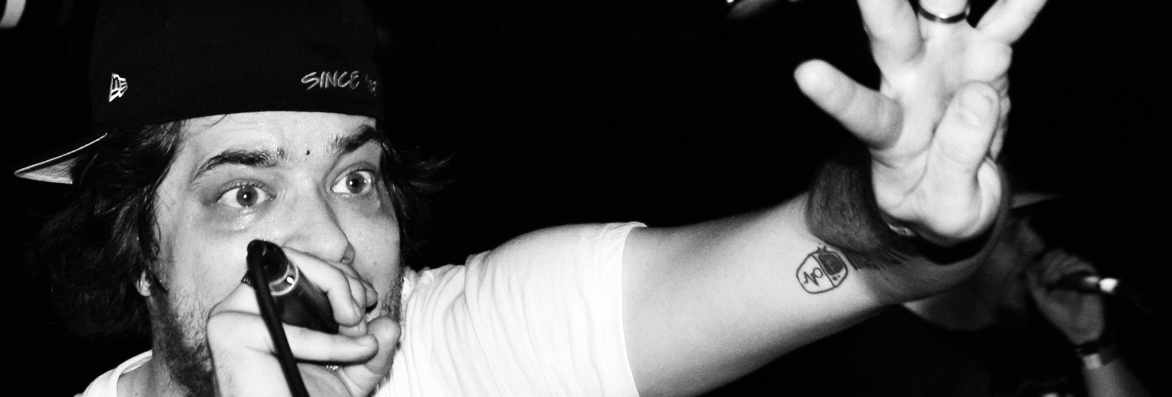
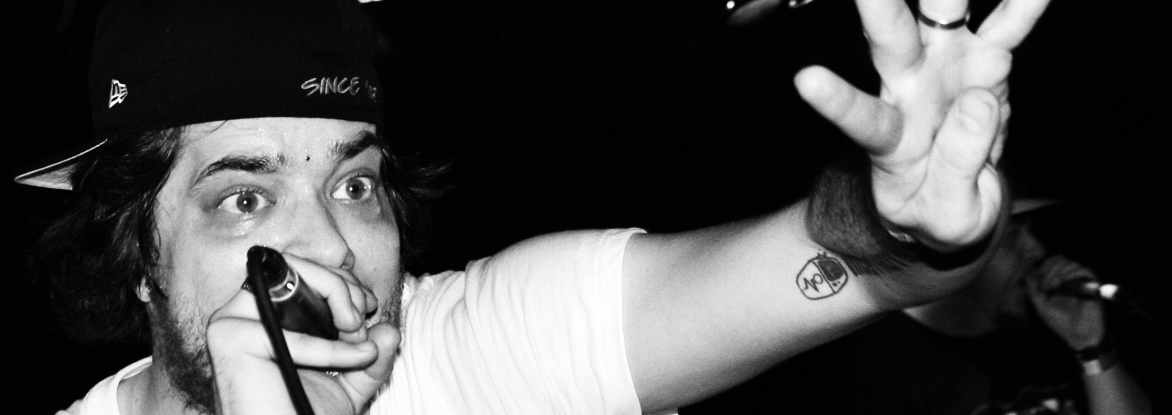
Updated header image layout and added meta tags

diff --git a/_/css/screen.min.css b/_/css/screen.min.css
@@ -1,1 +1,1 @@
-.holder:after,main:after{content:"";display:table;clear:both}.holder,main{max-width:680px;margin:0 auto;position:relative;padding-left:20px;padding-right:20px}@media(min-width:43.75em){.holder,main{padding-left:50px;padding-right:50px}}*{box-sizing:border-box}.chromeframe{position:absolute;top:0;padding:20px;background:#fff;color:#666}@-ms-viewport{width:device-width}@-o-viewport{width:device-width}@viewport{width:device-width}::-moz-selection,::selection{background:#333;color:#fff;text-shadow:none}a:link{-webkit-tap-highlight-color:#333}.preload *{-webkit-transition:none!important;-moz-transition:none!important;-ms-transition:none!important;-o-transition:none!important}html{background-color:#eee}body{font-family:Helvetica Neue,Helvetica,Arial,sans-serif}h1,h2,h3,h4{margin-top:40px}img{max-width:100%;-webkit-backface-visibility:hidden;backface-visibility:hidden}p{margin:0;line-height:150%}p+p{margin-top:20px}li+li{margin-top:10px}.note{font-size:14px;font-size:1.2vw}@media(max-width:1166.66667px){.note{font-size:14px}}@media(min-width:1500px){.note{font-size:18px}}a{color:#333;text-decoration-skip:ink}a:hover{color:#666}html{font-size:80%}@media(min-width:43.75em){html{font-size:100%}}body{margin:0;display:-webkit-box;display:-webkit-flex;display:-ms-flexbox;display:flex;-webkit-box-orient:vertical;-webkit-box-direction:normal;-webkit-flex-direction:column;-ms-flex-direction:column;flex-direction:column;-webkit-box-align:center;-webkit-align-items:center;-ms-flex-align:center;align-items:center}.image-strip{background:url(../img/header--600.jpg?f) left center no-repeat #333;height:175px;background-size:cover;width:100%;color:#fff}@media(min-width:43.75em){.image-strip{height:250px;background-image:url(../img/header.jpg?8ftf)}}header{background-color:#333;color:#fff;padding:20px 0;width:100%}header h1,header h2{margin:0}.intro{background-color:#fff;width:100%;padding:20px 0}footer{background:#fff;padding:40px 0;width:100%}.refresh{margin:80px 0;display:-webkit-box;display:-webkit-flex;display:-ms-flexbox;display:flex;-webkit-box-pack:center;-webkit-justify-content:center;-ms-flex-pack:center;justify-content:center}.refresh button{cursor:pointer}.refresh button:hover{background-color:#a3a3a3}.refresh svg{display:inline-block;margin-right:5px}.foot-notes{margin-top:40px;font-size:80%}.foot-notes p+p{margin-top:10px}button{font-size:14px;border:0;display:-webkit-inline-box;display:-webkit-inline-flex;display:-ms-inline-flexbox;display:inline-flex;-webkit-box-align:center;-webkit-align-items:center;-ms-flex-align:center;align-items:center;-webkit-box-pack:center;-webkit-justify-content:center;-ms-flex-pack:center;justify-content:center;padding:20px;background-color:#ccc}
+.holder:after,main:after{content:"";display:table;clear:both}.holder,main{max-width:680px;margin:0 auto;position:relative;padding-left:20px;padding-right:20px}@media(min-width:43.75em){.holder,main{padding-left:50px;padding-right:50px}}*{box-sizing:border-box}.chromeframe{position:absolute;top:0;padding:20px;background:#fff;color:#666}@-ms-viewport{width:device-width}@-o-viewport{width:device-width}@viewport{width:device-width}::-moz-selection,::selection{background:#333;color:#fff;text-shadow:none}a:link{-webkit-tap-highlight-color:#333}.preload *{-webkit-transition:none!important;-moz-transition:none!important;-ms-transition:none!important;-o-transition:none!important}body{font-family:Helvetica Neue,Helvetica,Arial,sans-serif}h1,h2,h3,h4{margin-top:40px}img{max-width:100%;-webkit-backface-visibility:hidden;backface-visibility:hidden}p{margin:0;line-height:150%}p+p{margin-top:20px}li+li{margin-top:10px}.note{font-size:14px;font-size:1.2vw}@media(max-width:1166.66667px){.note{font-size:14px}}@media(min-width:1500px){.note{font-size:18px}}a{color:#333;text-decoration-skip:ink}a:hover{color:#666}html{background-color:#333;font-size:80%}@media(min-width:43.75em){html{font-size:100%}}body{margin:0;display:-webkit-box;display:-webkit-flex;display:-ms-flexbox;display:flex;-webkit-box-orient:vertical;-webkit-box-direction:normal;-webkit-flex-direction:column;-ms-flex-direction:column;flex-direction:column;-webkit-box-align:center;-webkit-align-items:center;-ms-flex-align:center;align-items:center}.image-strip{background:#030303;display:-webkit-box;display:-webkit-flex;display:-ms-flexbox;display:flex;-webkit-box-pack:center;-webkit-justify-content:center;-ms-flex-pack:center;justify-content:center;width:100%;color:#fff}.image-strip__image{max-width:850px}.image-strip img{display:block}header{background-color:#030303;color:#fff;padding:20px 0;width:100%}header h1,header h2{margin:0}.intro{background-color:#fff;width:100%;padding:20px 0}footer{background:#fff;padding:40px 0;width:100%}.refresh{margin:80px 0;display:-webkit-box;display:-webkit-flex;display:-ms-flexbox;display:flex;-webkit-box-pack:center;-webkit-justify-content:center;-ms-flex-pack:center;justify-content:center}.refresh button{cursor:pointer}.refresh button:hover{background-color:#a3a3a3}.refresh svg{display:inline-block;margin-right:5px}.foot-notes{margin-top:40px;font-size:80%}.foot-notes p+p{margin-top:10px}button{font-size:14px;border:0;display:-webkit-inline-box;display:-webkit-inline-flex;display:-ms-inline-flexbox;display:inline-flex;-webkit-box-align:center;-webkit-align-items:center;-ms-flex-align:center;align-items:center;-webkit-box-pack:center;-webkit-justify-content:center;-ms-flex-pack:center;justify-content:center;padding:20px;background-color:#ccc}

diff --git a/_/css/screen.css b/_/css/screen.css
@@ -197,6 +197,7 @@ a:hover {
 /* --------------------------------------------------- */
 /* line 30, ../sass/screen.scss */
 html {
+  background-color: #333;
   font-size: 80%;
 }
 @media (min-width: 43.75em) {
@@ -206,7 +207,7 @@ html {
   }
 }
 
-/* line 37, ../sass/screen.scss */
+/* line 38, ../sass/screen.scss */
 body {
   margin: 0;
   display: -webkit-box;
@@ -224,57 +225,56 @@ body {
           align-items: center;
 }
 
-/* line 44, ../sass/screen.scss */
+/* line 45, ../sass/screen.scss */
 .image-strip {
-  background: #333;
-  height: 175px;
-  background-image: url(../img/header--600.jpg?f);
-  background-size: cover;
-  background-repeat: no-repeat;
-  background-position: left center;
+  background: #030303;
+  display: -webkit-box;
+  display: -webkit-flex;
+  display: -ms-flexbox;
+  display: flex;
+  -webkit-box-pack: center;
+  -webkit-justify-content: center;
+      -ms-flex-pack: center;
+          justify-content: center;
   width: 100%;
   color: #FFF;
 }
-@media (min-width: 43.75em) {
-  /* line 44, ../sass/screen.scss */
-  .image-strip {
-    height: 250px;
-  }
+/* line 67, ../sass/screen.scss */
+.image-strip__image {
+  max-width: 850px;
 }
-@media (min-width: 43.75em) {
-  /* line 44, ../sass/screen.scss */
-  .image-strip {
-    background-image: url(../img/header.jpg?8ftf);
-  }
+/* line 71, ../sass/screen.scss */
+.image-strip img {
+  display: block;
 }
 
-/* line 69, ../sass/screen.scss */
+/* line 78, ../sass/screen.scss */
 header {
-  background-color: #333;
+  background-color: #030303;
   color: #FFF;
   padding: 20px 0;
   width: 100%;
 }
-/* line 75, ../sass/screen.scss */
+/* line 84, ../sass/screen.scss */
 header h1, header h2 {
   margin: 0;
 }
 
-/* line 80, ../sass/screen.scss */
+/* line 89, ../sass/screen.scss */
 .intro {
   background-color: #fff;
   width: 100%;
   padding: 20px 0;
 }
 
-/* line 91, ../sass/screen.scss */
+/* line 100, ../sass/screen.scss */
 footer {
   background: #FFF;
   padding: 40px 0;
   width: 100%;
 }
 
-/* line 97, ../sass/screen.scss */
+/* line 106, ../sass/screen.scss */
 .refresh {
   margin: 80px 0 80px 0;
   display: -webkit-box;
@@ -286,31 +286,31 @@ footer {
       -ms-flex-pack: center;
           justify-content: center;
 }
-/* line 102, ../sass/screen.scss */
+/* line 111, ../sass/screen.scss */
 .refresh button {
   cursor: pointer;
 }
-/* line 104, ../sass/screen.scss */
+/* line 113, ../sass/screen.scss */
 .refresh button:hover {
   background-color: #a3a3a3;
 }
-/* line 109, ../sass/screen.scss */
+/* line 118, ../sass/screen.scss */
 .refresh svg {
   display: inline-block;
   margin-right: 5px;
 }
 
-/* line 117, ../sass/screen.scss */
+/* line 126, ../sass/screen.scss */
 .foot-notes {
   margin-top: 40px;
   font-size: 80%;
 }
-/* line 121, ../sass/screen.scss */
+/* line 130, ../sass/screen.scss */
 .foot-notes p + p {
   margin-top: 10px;
 }
 
-/* line 127, ../sass/screen.scss */
+/* line 136, ../sass/screen.scss */
 button {
   font-size: 14px;
   border: 0;

diff --git a/_/sass/screen.scss b/_/sass/screen.scss
@@ -28,6 +28,7 @@
 /* --------------------------------------------------- */
 
 html {
+  background-color: #333;
   font-size: 80%;
   @include breakpoint(em(700)){
 		font-size: 100%;
@@ -42,32 +43,40 @@ body {
 }
 
 .image-strip {
-  background: #333;
-  height: 175px;
-  @include breakpoint(em(700)){
-  height: 250px;
-	}
+  background: #030303;
+  // height: 175px;
+  // @include breakpoint(em(700)){
+  // height: 250px;
+	// }
 
-    background-image: url(../img/header--600.jpg?f);
-  @include breakpoint(em(700)){
-  background-image: url(../img/header.jpg?8ftf);
-	}
+  // background-image: url(../img/header--600.jpg?f);
+  // @include breakpoint(em(700)){
+  // background-image: url(../img/header.jpg?8ftf);
+	// }
+  //
+  // background-size: 850px auto;
+  // background-repeat: no-repeat;
+  // background-position: center center;
 
-  background-size: cover;
-  background-repeat: no-repeat;
-  background-position: left center;
-
+  display: flex;
+  justify-content: center;
 
   width: 100%;
   color: #FFF;
 
+  &__image {
+    max-width: 850px;
+  }
 
+  img {
+    display: block;
+  }
 
 
 }
 
 header {
-  background-color: #333;
+  background-color: #030303;
 
   color: #FFF;
   padding: $space 0;

diff --git a/index.php b/index.php
@@ -1,13 +1,22 @@
 <!DOCTYPE html>
 <html>
 <head>
-	<title>Lorum ipsum generator using Aesop Rock lyrics</title>
+	<title>Placeholder text using Aesop Rock lyrics</title>
 	<link rel="stylesheet" href="_/css/screen.css">
+
+	<meta name="description" content="Create placeholder and lorem ipsum style text using Aesop Rock lyrics">
+
+	<!-- TODO: Add og and twitter tags -->
 
 </head>
 <body>
 
-<div class="image-strip"></div>
+<div class="image-strip">
+	<div class="image-strip__image">
+		<img src="_/img/header.jpg" alt="Aesop Rock performing live">
+	</div>
+	<!-- image-strip__image -->
+</div>
 
 <header role="banner">
 <!-- <img src="_/img/header.jpg" alt="Aesop Rock"> -->
